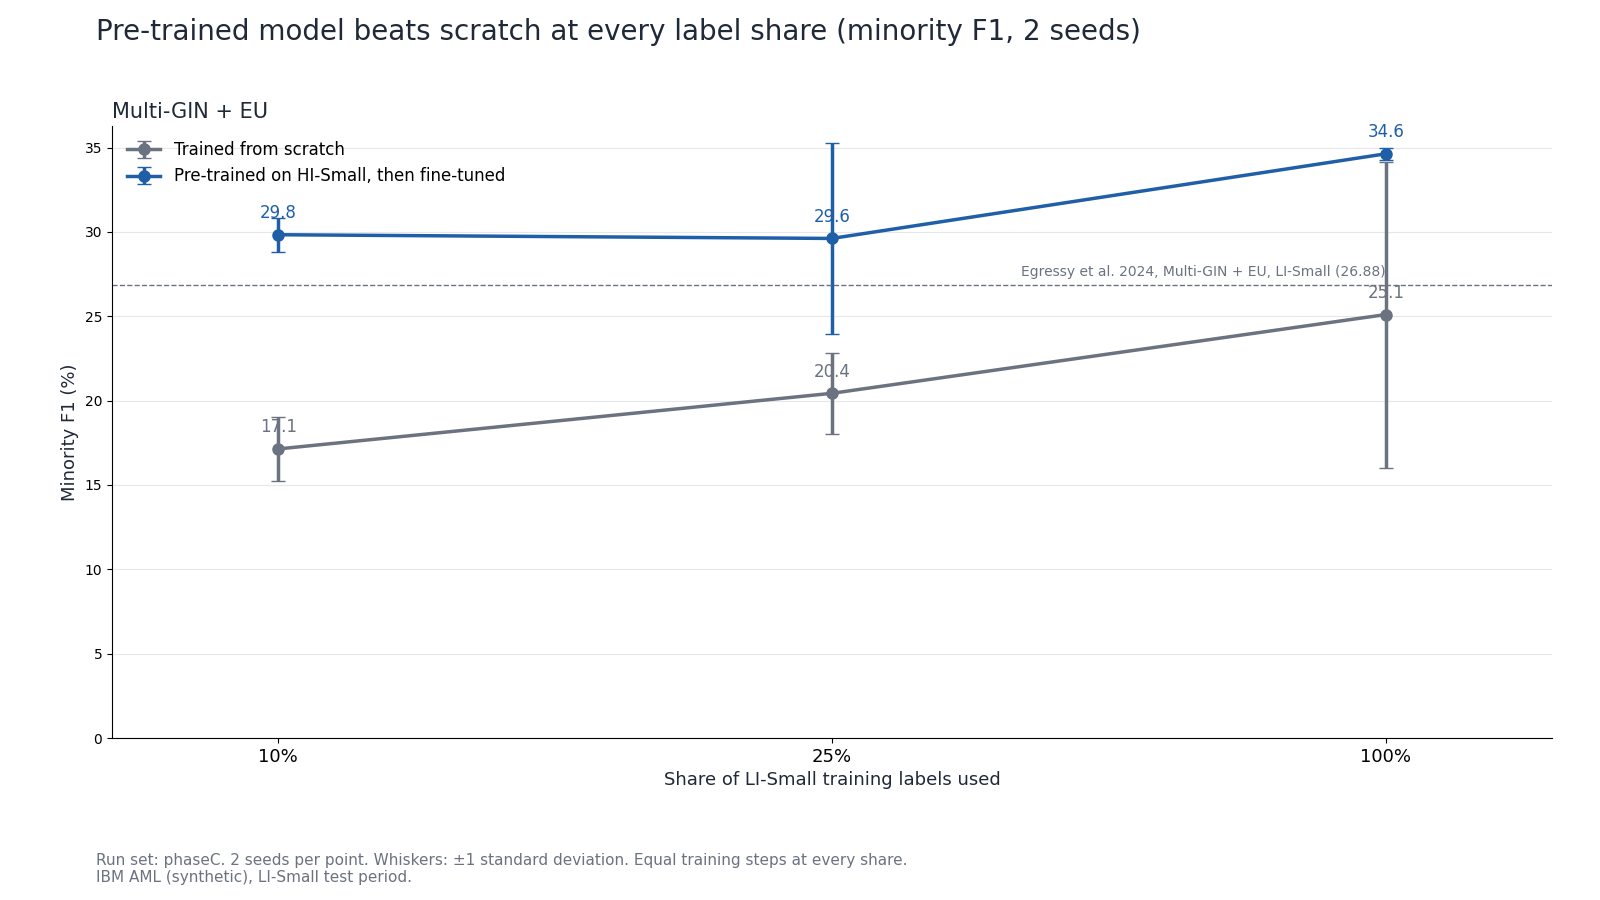
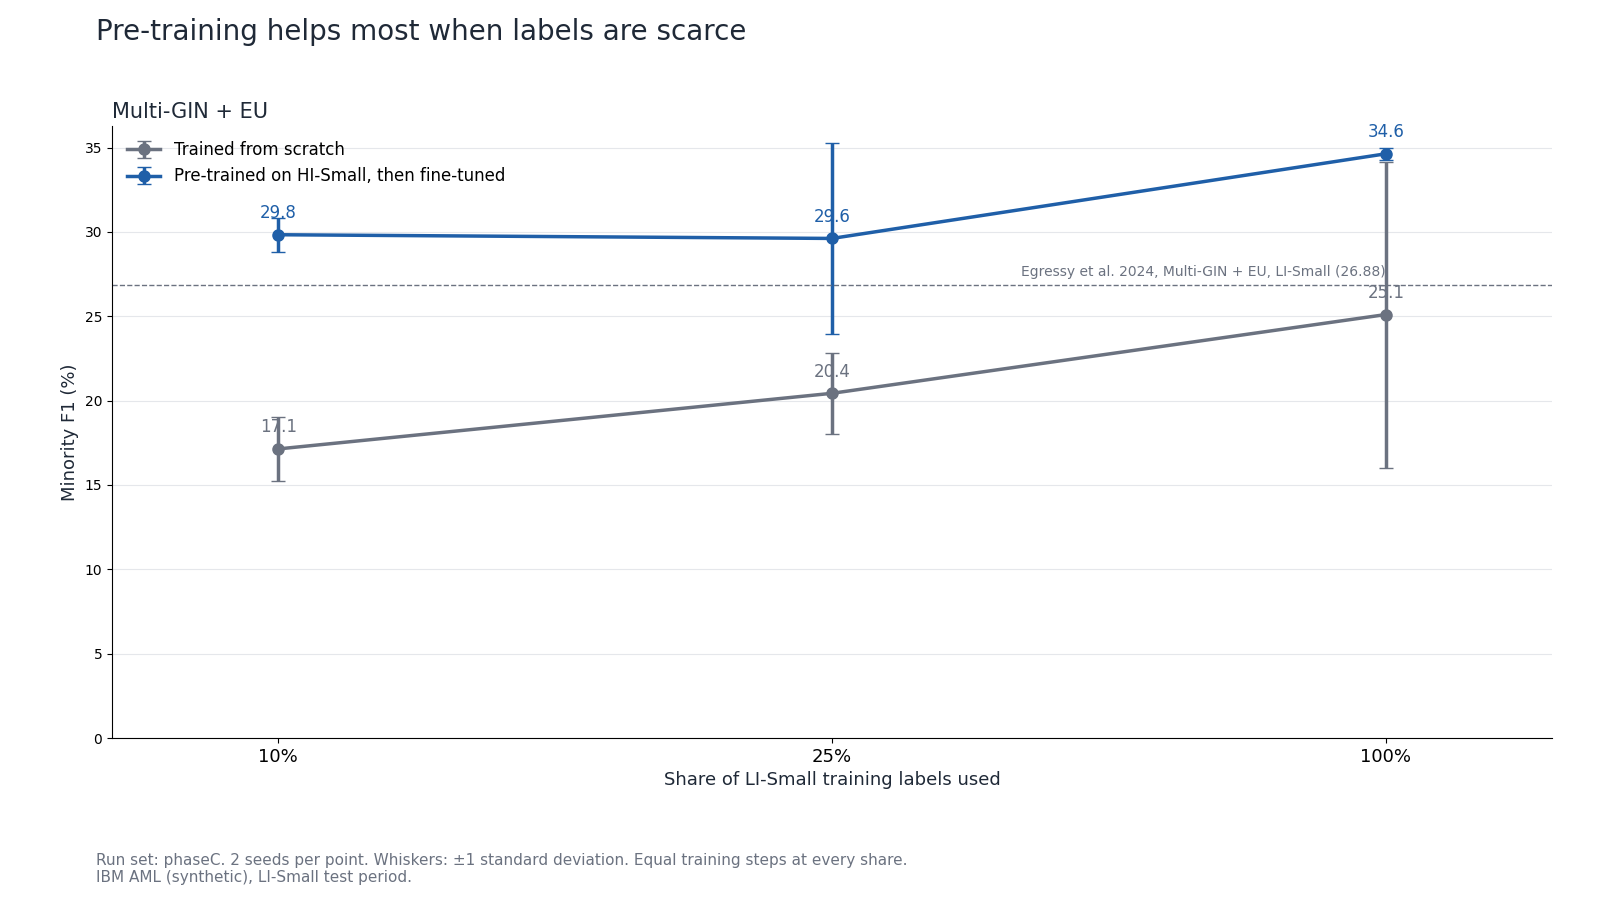
Chart title 'Pre-training helps most when labels are scarce'; export_curves keeps only the finished run's epochs and covers phaseC

Changed region(s): [[0.125, 0.0, 0.625, 0.0622], [0.6562, 0.0311, 0.7188, 0.0622]]

diff --git a/src/read_log.py b/src/read_log.py
@@ -18,7 +18,7 @@ Example:
 from __future__ import annotations
 
 import re
-from dataclasses import dataclass
+from dataclasses import dataclass, replace
 from pathlib import Path
 from typing import List, Optional
 
@@ -74,23 +74,42 @@ def multignn_best_epoch(epochs: List[EpochScores]) -> EpochScores:
     return chosen
 
 
-def validation_curve(epochs: List[EpochScores]) -> List[List[float]]:
+def validation_curve(
+    epochs: List[EpochScores],
+    epochs_run: Optional[int] = None,
+    validations: Optional[int] = None,
+) -> List[List[float]]:
     """[epoch, validation F1] for every epoch that was really validated.
 
     Epochs count from 1, like `best_epoch` in a run record. Epochs the wrapper
     skipped ("not scored") are left out. This is Multi-GNN's own F1 (argmax), a
     progress curve, not the threshold-tuned F1 the record scores.
+
+    A log can hold earlier, interrupted attempts of the same run, and the one
+    that finished is last. So keep only the last `epochs_run` epochs (renumbered
+    from 1) and then at most the last `validations` points.
     """
-    return [
+    if epochs_run:
+        epochs = [
+            replace(scores, epoch=number)
+            for number, scores in enumerate(epochs[-epochs_run:])
+        ]
+    points = [
         [scores.epoch + 1, scores.validation_f1]
         for scores in epochs
         if scores.validation_f1 is not None
     ]
+    return points[-validations:] if validations else points
 
 
-def read_validation_curve(run_folder: Path) -> List[List[float]]:
+def read_validation_curve(
+    run_folder: Path,
+    epochs_run: Optional[int] = None,
+    validations: Optional[int] = None,
+) -> List[List[float]]:
     """The curve from `<run folder>/logs/logs.log`; empty if there is no log."""
     log_file = run_folder / "logs" / "logs.log"
     if not log_file.exists():
         return []
-    return validation_curve(parse_epoch_scores(log_file.read_text()))
+    scores = parse_epoch_scores(log_file.read_text())
+    return validation_curve(scores, epochs_run, validations)

diff --git a/tests/test_collect_plot.py b/tests/test_collect_plot.py
@@ -294,3 +294,39 @@ def test_export_sets_writes_curves_next_to_each_sets_records(tmp_path: Path) -> 
     written = export_sets(tmp_path, ["phaseA"])
     assert written == [tmp_path / "phaseA" / "curves" / (record.run_id + ".json")]
     assert json.loads(written[0].read_text()) == [[1, 0.2]]
+
+
+def test_the_exported_curve_is_used_even_when_the_record_holds_a_longer_one(
+    tmp_path: Path,
+) -> None:
+    records_dir = tmp_path / "records"
+    record = make_record("scratch", 0.1, 0.2, validation_curve=[[1, 0.1], [90, 0.5]])
+    write_record(record, records_dir)
+    (tmp_path / "curves").mkdir()
+    (tmp_path / "curves" / (record.run_id + ".json")).write_text("[[1, 0.1]]")
+    assert curve_for(record, records_dir) == [[1, 0.1]]
+
+
+def test_the_exporter_reads_each_logs_last_epochs_and_validation_count(
+    tmp_path: Path,
+) -> None:
+    from src.export_curves import export_curves
+
+    record = make_record("scratch", 1.0, 0.3, epochs_requested=3, validations=3)
+    write_record(record, tmp_path / "records")
+    log = tmp_path / "runs" / record.run_id / "logs"
+    log.mkdir(parents=True)
+    old = "Train F1: 0.1\nValidation F1: 0.9\nTest F1: not scored\n" * 2
+    new = "Train F1: 0.1\nValidation F1: 0.2\nTest F1: not scored\n" * 3
+    (log / "logs.log").write_text("Retrieving data\n" + old + new)
+    path = export_curves(tmp_path / "runs", tmp_path / "records", tmp_path / "out")[0]
+    assert json.loads(path.read_text()) == [[1, 0.2], [2, 0.2], [3, 0.2]]
+
+
+def test_the_title_says_pre_training_helps_most_when_labels_are_scarce() -> None:
+    records = []
+    for seed, wobble in enumerate((0.0, 0.002)):
+        for fraction, gap in ((0.1, 0.15), (0.25, 0.08), (1.0, 0.09)):
+            records.append(make_record("scratch", fraction, 0.2 + wobble, seed))
+            records.append(make_record("finetune", fraction, 0.2 + gap + wobble, seed))
+    assert title_for(records) == "Pre-training helps most when labels are scarce"

diff --git a/src/export_curves.py b/src/export_curves.py
@@ -10,7 +10,7 @@ logs live on Drive, so run it on Colab or copy the logs down first:
 On Colab (no GPU needed) the notebook's RUN_SET = "export_curves" does this for
 whole run sets, writing `<home>/<set>/curves/` next to `<home>/<set>/records/`:
 
-    python -m src.export_curves --home <Drive project folder> --sets pilot phaseA
+    python -m src.export_curves --home <Drive project folder> --sets pilot phaseA phaseC
 """
 
 from __future__ import annotations
@@ -25,13 +25,23 @@ from src.phases import phase_folders
 from src.read_log import read_validation_curve
 from src.records import read_all_records
 
+EXPORTED_SETS = [
+    "pilot",
+    "phaseA",
+    "phaseC",
+]  # runs whose records lack a trustworthy curve
+
 
 def export_curves(logs_root: Path, records_dir: Path, output_dir: Path) -> List[Path]:
     """One curve file per record whose log exists. Returns the files written."""
     output_dir.mkdir(parents=True, exist_ok=True)
     written = []
     for record in read_all_records(records_dir):
-        curve = read_validation_curve(logs_root / record.run_id)
+        curve = read_validation_curve(
+            logs_root / record.run_id,
+            record.config.get("epochs_requested"),
+            record.config.get("validations"),
+        )
         if not curve:
             print("no log for %s, skipped" % record.run_id)
             continue
@@ -59,7 +69,7 @@ def main(argv: Optional[List[str]] = None) -> None:
     parser.add_argument("--records-dir", type=Path)
     parser.add_argument("--out", type=Path)
     parser.add_argument("--home", type=Path, help="Project folder (Drive on Colab)")
-    parser.add_argument("--sets", nargs="+", default=["pilot", "phaseA"])
+    parser.add_argument("--sets", nargs="+", default=EXPORTED_SETS)
     arguments = parser.parse_args(argv)
     if arguments.home:
         files = export_sets(arguments.home, arguments.sets)

diff --git a/tests/test_read_log.py b/tests/test_read_log.py
@@ -102,3 +102,40 @@ def test_a_run_folder_without_a_log_has_an_empty_curve(tmp_path) -> None:
     from src.read_log import read_validation_curve
 
     assert read_validation_curve(tmp_path) == []
+
+
+def epoch_text(count: int, first_f1: float = 0.1) -> str:
+    """`count` logged epochs, every one validated, F1 rising by 0.01 each epoch."""
+    text = ""
+    for number in range(count):
+        text += "Train F1: 0.1\nValidation F1: %.4f\nTest F1: not scored\n" % (
+            first_f1 + 0.01 * number
+        )
+    return text
+
+
+def test_an_interrupted_attempt_before_the_finished_one_is_left_out_of_the_curve() -> (
+    None
+):
+    from src.read_log import validation_curve
+
+    # No second "Retrieving data" marker, as in the real Phase C logs.
+    log = "Retrieving data\n" + epoch_text(3, 0.9) + epoch_text(5, 0.1)
+    curve = validation_curve(parse_epoch_scores(log), epochs_run=5, validations=5)
+    assert [epoch for epoch, _ in curve] == [1, 2, 3, 4, 5]
+    assert curve[0][1] == 0.1 and curve[-1][1] == pytest.approx(0.14)
+
+
+def test_the_curve_never_has_more_points_than_the_run_had_validations() -> None:
+    from src.read_log import validation_curve
+
+    log = "Retrieving data\n" + epoch_text(10)
+    curve = validation_curve(parse_epoch_scores(log), validations=4)
+    assert len(curve) == 4 and curve[-1][0] == 10
+
+
+def test_without_limits_the_whole_log_is_the_curve() -> None:
+    from src.read_log import validation_curve
+
+    log = "Retrieving data\n" + epoch_text(3)
+    assert len(validation_curve(parse_epoch_scores(log))) == 3

diff --git a/src/plot.py b/src/plot.py
@@ -76,6 +76,17 @@ def matched_pairs(by_model: Dict[str, StatsByArm]) -> List[Tuple[Stat, Stat]]:
     return pairs
 
 
+def largest_gap_at_fewest_labels(by_model: Dict[str, StatsByArm]) -> bool:
+    """True if, in every model, the fine-tune lead is biggest at the smallest share."""
+    for name, stats in by_model.items():
+        model_pairs = matched_pairs({name: stats})
+        ordered = sorted(model_pairs, key=lambda pair: pair[0].fraction)
+        gaps = [a.mean - b.mean for a, b in ordered]
+        if len(gaps) < 2 or gaps[0] <= max(gaps[1:]):
+            return False
+    return True
+
+
 def chart_title(by_model: Dict[str, StatsByArm], metric_name: str) -> str:
     """The finding in words. Never calls a gap inside the seed spread a win."""
     pairs = matched_pairs(by_model)
@@ -84,6 +95,10 @@ def chart_title(by_model: Dict[str, StatsByArm], metric_name: str) -> str:
     seeds = min(min(a.count, b.count) for a, b in pairs)
     if any(a.mean <= b.mean for a, b in pairs):
         return "Pre-training does not help at every label share (%s)" % metric_name
+    if all(gap_is_clear(a, b) for a, b in pairs) and largest_gap_at_fewest_labels(
+        by_model
+    ):
+        return "Pre-training helps most when labels are scarce"
     if all(gap_is_clear(a, b) for a, b in pairs):
         return "Pre-trained model beats scratch at every label share (%s, %d seeds)" % (
             metric_name, seeds)  # fmt: skip

diff --git a/tools/make_notebooks.py b/tools/make_notebooks.py
@@ -205,8 +205,8 @@ run(f"{sys.executable} -m src.run_phase " + " ".join(words))
 """
 
 COLAB_EXPORT = r"""
-run(f"{sys.executable} -m src.export_curves --home {DRIVE} --sets pilot phaseA")
-run(f"ls {DRIVE}/pilot/curves {DRIVE}/phaseA/curves")
+run(f"{sys.executable} -m src.export_curves --home {DRIVE} --sets pilot phaseA phaseC")
+run(f"ls {DRIVE}/pilot/curves {DRIVE}/phaseA/curves {DRIVE}/phaseC/curves")
 """
 
 
@@ -242,7 +242,7 @@ Pick `RUN_SET` in the first cell:
 | `phaseA` | GIN at 100% labels, 20-epoch budget, scratch and fine-tune (ids end `_b20`) |
 | `phaseC` | GIN grid: `PHASE_C_FRACTIONS` x 2 setups x `PHASE_C_SEEDS` (10/25/100%, seeds 0 and 1); needs `BUDGET_C` in `src/config.py`; reuses pilot (budget 8) or Phase A (budget 20) runs |
 | `phaseD` | PNA: trains its HI-Small source model, then the same grid; needs `BUDGET_C` |
-| `export_curves` | no GPU: rebuilds validation curves for the pilot and Phase A from their Multi-GNN logs on Drive, into `pilot/curves/` and `phaseA/curves/` |
+| `export_curves` | no GPU: rebuilds validation curves for the pilot, Phase A and Phase C from their Multi-GNN logs on Drive, into `<set>/curves/` for `pilot`, `phaseA` and `phaseC` |
 
 Each run prints an estimate before it starts, then its real minutes and Colab units with a running total.
 A run expected to pass 3 GPU hours stops unless `ALLOW_LONG_RUNS = True` (AGENTS.md rule 6: ask the owner first).

diff --git a/src/plot_curves.py b/src/plot_curves.py
@@ -27,14 +27,15 @@ CURVES_FOLDER = "curves"
 
 
 def curve_for(record: RunRecord, records_dir: Path) -> Optional[List[List[float]]]:
-    """[epoch, F1] points from the record, else from the exported side file."""
-    curve = record.config.get("validation_curve")
-    if curve:
-        return curve
+    """[epoch, F1] points from the exported side file, else from the record.
+
+    The side file wins: it is rebuilt with the log fix, while a record written
+    before that fix can hold the points of earlier, interrupted attempts.
+    """
     side_file = records_dir.parent / CURVES_FOLDER / (record.run_id + ".json")
     if side_file.exists():
         return json.loads(side_file.read_text())
-    return None
+    return record.config.get("validation_curve") or None
 
 
 def curves_by_fraction(

diff --git a/src/run_experiment.py b/src/run_experiment.py
@@ -166,7 +166,9 @@ def run_experiment(plan: RunPlan, environment: str, smoke_test: bool) -> Path:
             plan, run_folder, smoke_test
         )
         # Read the log only now: before training it does not exist yet.
-        extras["validation_curve"] = read_validation_curve(run_folder)
+        extras["validation_curve"] = read_validation_curve(
+            run_folder, plan.epochs, plan.validations
+        )
         if not has_checkpoint(plan):  # a result, not a crash: see experiment_record
             record = build_no_improvement_record(
                 plan, summary, training_seconds, environment, smoke_test,

diff --git a/tests/test_run_experiment.py b/tests/test_run_experiment.py
@@ -269,7 +269,7 @@ def test_the_validation_curve_is_read_after_training_has_written_the_log(
         lambda *a: order.append("train") or (None, 1.0, False),
     )
     monkeypatch.setattr(
-        module, "read_validation_curve", lambda p: order.append("curve") or [[1, 0.2]]
+        module, "read_validation_curve", lambda *a: order.append("curve") or [[1, 0.2]]
     )
     monkeypatch.setattr(module, "has_checkpoint", lambda p: True)
     monkeypatch.setattr(module, "score_checkpoint", lambda r: None)

diff --git a/README.md b/README.md
@@ -91,7 +91,7 @@ If a pilot run's step budget changes, records and models made at the old budget 
 
 ### Phase C (GIN, 10/25/100% of labels, seeds 0 and 1, budget 20)
 
-Pre-training on HI-Small gave a higher test minority F1 than training from scratch at all three label shares. At 10% of the labels the fine-tuned model scored 29.8 against 17.1, and its 10% score is above the 26.88 that Egressy et al. (2024) report for Multi-GIN + EU on LI-Small (their number, not ours). Only two seeds were run, so the spread below is a rough guide.
+Pre-training helps most when labels are scarce: it gave a higher test minority F1 than training from scratch at all three label shares, and the gap is largest at 10% of the labels (12.7 points, against 9.2 at 25% and 9.5 at 100%, where the 100% gap is within the scratch spread). At 10% of the labels the fine-tuned model scored 29.8 against 17.1, and its 10% score is above the 26.88 that Egressy et al. (2024) report for Multi-GIN + EU on LI-Small (their number, not ours). Only two seeds were run, so the spread below is a rough guide.
 
 ![Minority F1 against share of labels, Phase C](results/phases/phaseC/label_scarcity_f1.png)
 
@@ -116,7 +116,7 @@ What this does and does not show:
 - **Fine-tuned F1 does not fall with fewer labels here** (29.8 at 10%, 29.6 at 25%), but 10% to 25% is inside the 25% spread (5.7). We have not shown that 10% of the labels is enough.
 - **One source model.** Every fine-tune starts from the same HI-Small model, so pre-training variance is not in the spread.
 - **Test F1 and validation F1 differ.** The table is test. Validation F1 (threshold chosen there) is in `results/summary.csv` as `val_minority_f1`, and the two differ in both directions: validation is higher than test for most scratch runs and lower for most fine-tuned runs.
-- **Validation curves for Phase C are not shown.** Five of the ten records hold more curve points than their run had validations (the Multi-GNN log of an interrupted run was read whole), so the curves are not reliable and the chart is left out.
+- **Validation curves for Phase C are not shown yet.** Five of the ten records hold more curve points than their run had validations (the log of an interrupted run was read whole). The reader is fixed (it keeps only the finished run's epochs); run `RUN_SET = "export_curves"` to rebuild the curves from the Drive logs, and the chart can then be added.
 
 ### Pilot (GIN, one seed): a first look, not a result
 
